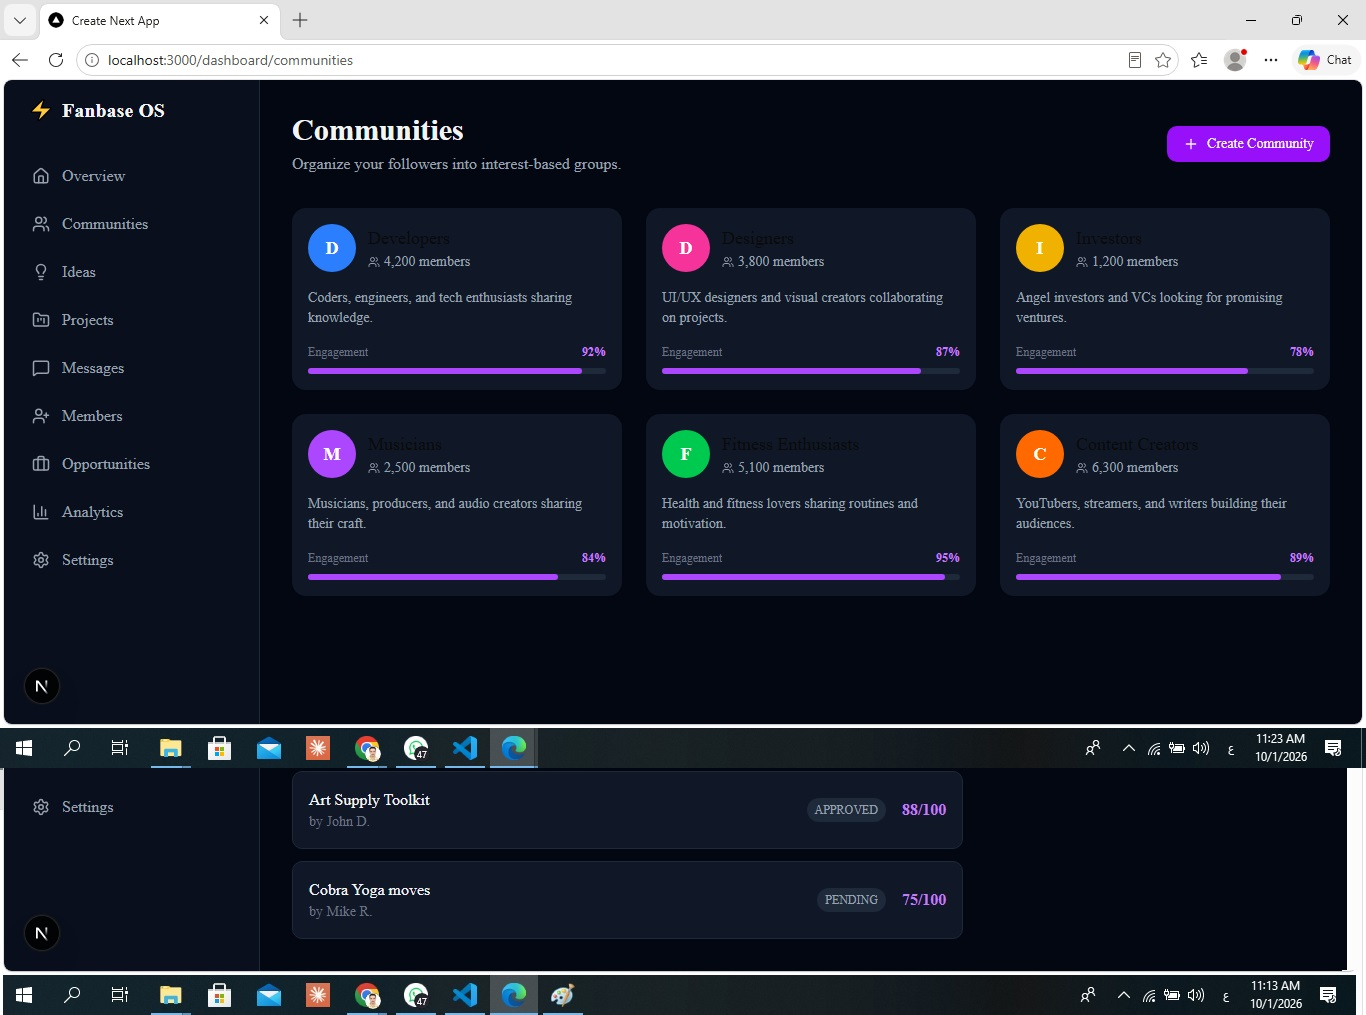
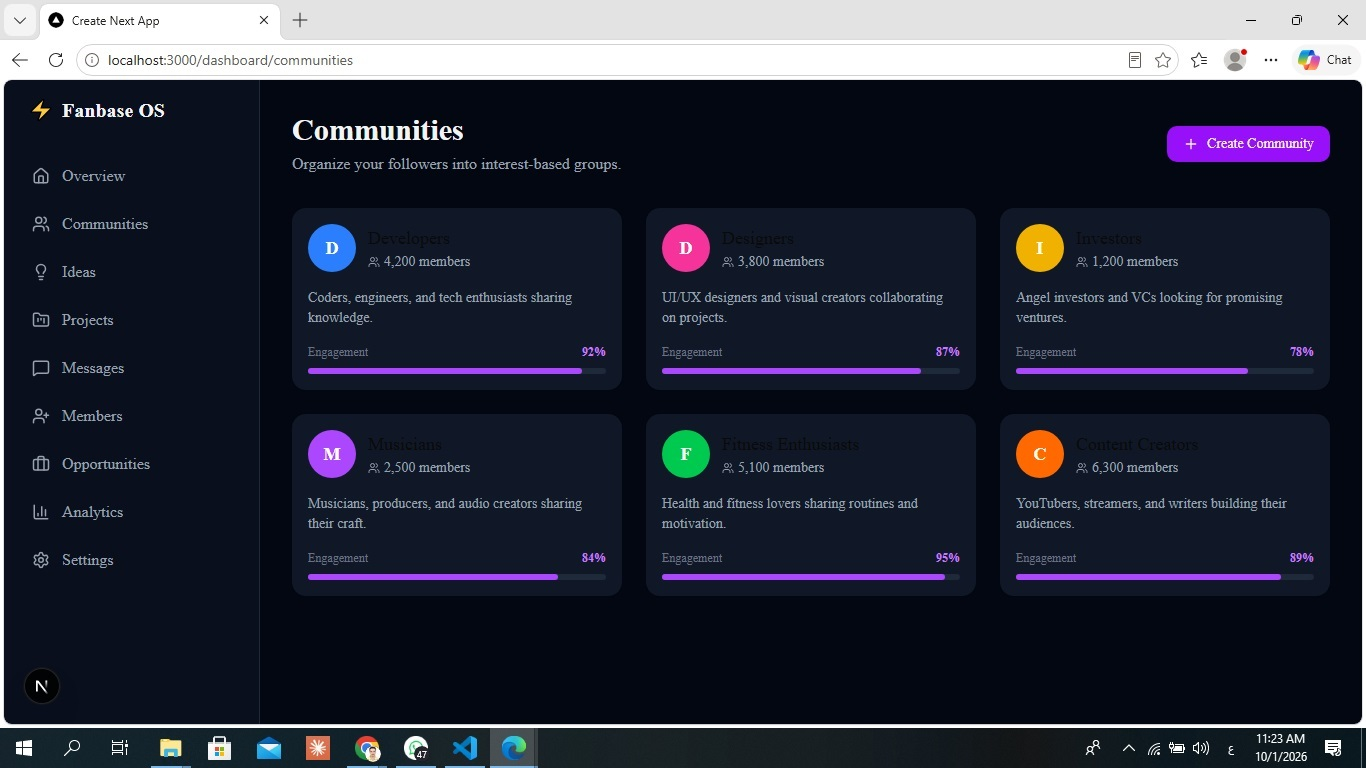
fix: mobile responsive dashboard

diff --git a/src/app/dashboard/layout.tsx b/src/app/dashboard/layout.tsx
@@ -2,11 +2,25 @@
 
 export default function DashboardLayout({ children }: { children: React.ReactNode }) {
   return (
-    <div className="flex h-screen bg-gray-950 text-gray-100">
-      <Sidebar />
-      <main className="flex-1 overflow-y-auto p-8">
+    <div className="flex min-h-screen bg-gray-950 text-gray-100">
+      {/* Sidebar - Hidden on mobile, visible on desktop */}
+      <div className="hidden md:block">
+        <Sidebar />
+      </div>
+      
+      {/* Main content */}
+      <main className="flex-1 overflow-y-auto p-4 md:p-8 pb-20 md:pb-8">
         {children}
       </main>
+      
+      {/* Mobile bottom nav */}
+      <div className="md:hidden fixed bottom-0 left-0 right-0 bg-gray-900 border-t border-gray-800 flex justify-around py-3 z-50">
+        <a href="/dashboard" className="text-xs text-gray-400 hover:text-purple-400">🏠</a>
+        <a href="/dashboard/communities" className="text-xs text-gray-400 hover:text-purple-400">👥</a>
+        <a href="/dashboard/ideas" className="text-xs text-gray-400 hover:text-purple-400">💡</a>
+        <a href="/dashboard/messages" className="text-xs text-gray-400 hover:text-purple-400">💬</a>
+        <a href="/dashboard/analytics" className="text-xs text-gray-400 hover:text-purple-400">📊</a>
+      </div>
     </div>
   );
 }
